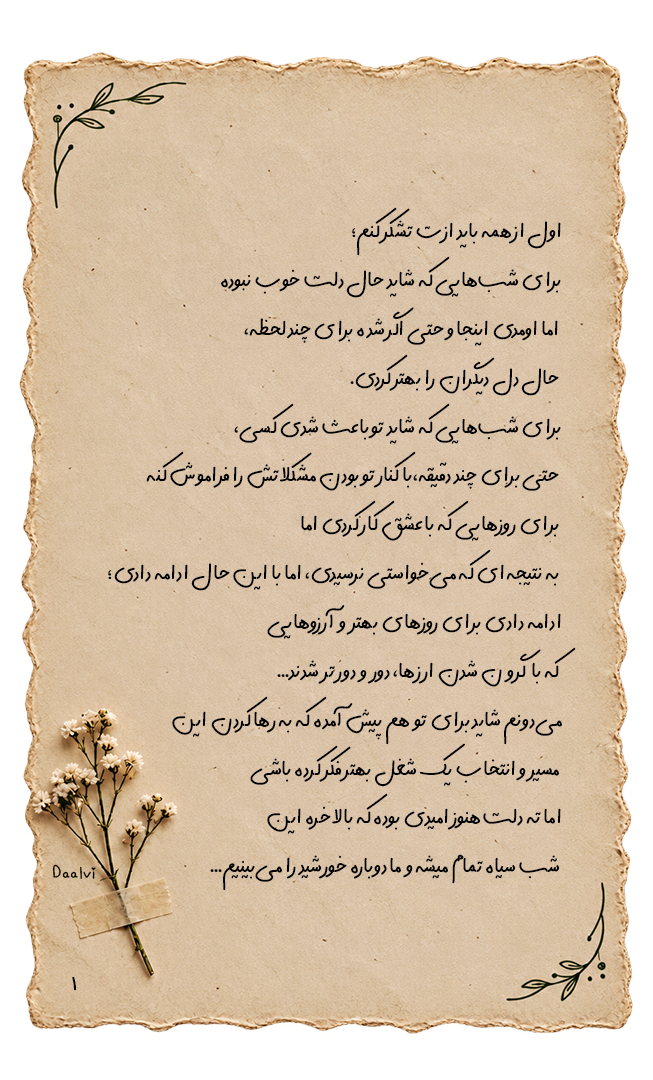
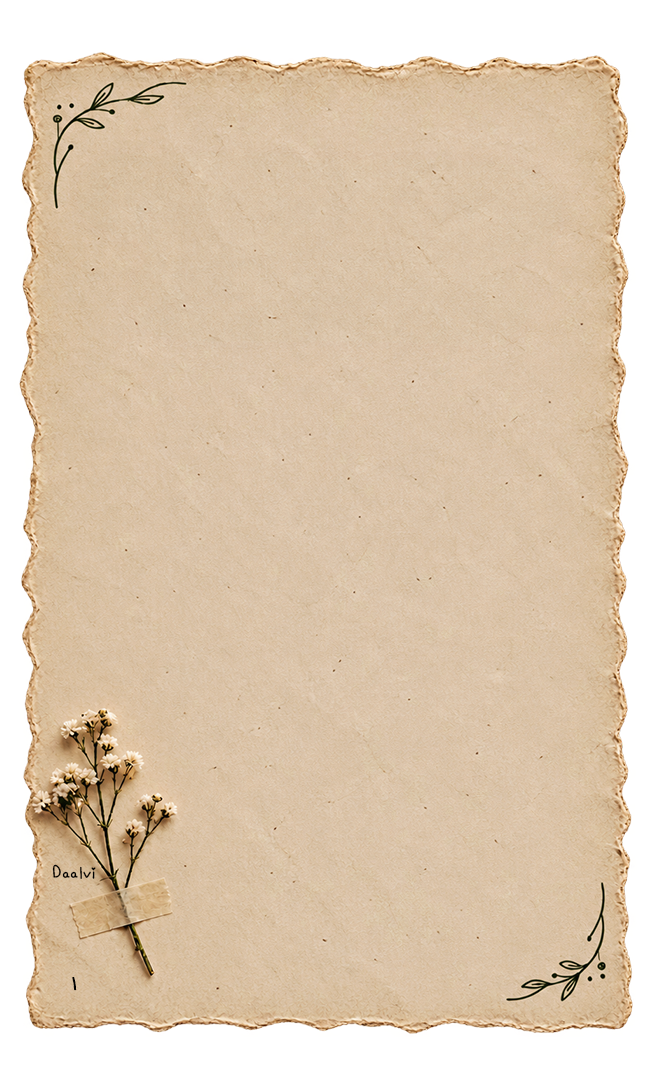
Replace baked letter-page text with blank paper + editable HTML text
The three letter pages used to bake their body text directly into the
PNG artwork, so every text change required a new Photoshop export.
assets/note-page1/2/3.png are now blank versions of the same paper
artwork (same decorations, torn edges, flowers, signature), and the
body text is real HTML laid over it - config.letterPage1/2/3, each
with its own text, position (x/y/width, as % so it scales with the
card on narrow screens), font size, line height, paragraph gap, and
word spacing, all editable live from three tabs in the admin panel
(reusing the existing generic field-schema/renderParagraphs machinery,
no new rendering logic needed). Page 1's dynamic name overlay is
unchanged and stays separate from the body text, as before.

Every px-based size overlaid on the letter card (name overlay font
size/gap, and now the body text's font size/word-spacing/paragraph
gap) is scaled by a new --nur-card-scale variable tied to the same
formula the card's own width already uses, so text stays proportional
to the card instead of overflowing it on narrow screens - this fixes
a real mobile bug the old fixed-px name overlay already had, now made
much more visible by a full paragraph block instead of one label.

doResetSection() now resets every config section a tab actually shows
fields for (not just the first), since the letter-page-1 tab spans two
sections (letterName + letterPage1).

diff --git a/styles.css b/styles.css
@@ -53,6 +53,15 @@
   --nur-envelope-gap-to-envelope:10px;
   --nur-envelope-font-size:20px;
 
+  /* The letter card renders as one scaling image (.letter-stage-inner's
+     width below); every px-sized thing overlaid on it needs to shrink at
+     the same rate or it stays full-size on a card that's shrunk around
+     it. 653px is note-page*.png's natural width - the size these numbers
+     were tuned at. See --nur-letter-name-font-size/--nur-letter1-font-size
+     etc. below for how this gets used. */
+  --nur-card-scale:min(840px,92vw);
+  --nur-card-reference-width:653px;
+
   --nur-letter-name-x:6%;
   --nur-letter-name-y:16%;
   --nur-letter-name-font-size:48px;
@@ -63,6 +72,36 @@
   --nur-final-font-size:34px;
   --nur-final-sig-y:96px;
   --nur-final-sig-font-size:15px;
+
+  /* Letter pages 1-3 - real HTML text laid over the now-blank paper
+     artwork (assets/note-page1/2/3.png). x/y/width are % (same reasoning
+     as --nur-letter-name-x/y: the whole card scales as one image, so a
+     fixed px position/width would overflow it on narrow screens) -
+     positioned the same way as --nur-letter-name-* (right/top), just
+     wrapping instead of nowrap since this is a paragraph block. */
+  --nur-letter1-x:6%;
+  --nur-letter1-y:21%;
+  --nur-letter1-width:80%;
+  --nur-letter1-font-size:17px;
+  --nur-letter1-line-height:1.55;
+  --nur-letter1-gap:8px;
+  --nur-letter1-word-spacing:0px;
+
+  --nur-letter2-x:6%;
+  --nur-letter2-y:13%;
+  --nur-letter2-width:80%;
+  --nur-letter2-font-size:17px;
+  --nur-letter2-line-height:1.55;
+  --nur-letter2-gap:8px;
+  --nur-letter2-word-spacing:0px;
+
+  --nur-letter3-x:6%;
+  --nur-letter3-y:13%;
+  --nur-letter3-width:80%;
+  --nur-letter3-font-size:17px;
+  --nur-letter3-line-height:1.55;
+  --nur-letter3-gap:8px;
+  --nur-letter3-word-spacing:0px;
 }
 
 *{box-sizing:border-box}
@@ -360,7 +399,11 @@ body::before{
 }
 
 .letter-stage-inner{
-  width:min(840px,92vw);
+  /* --nur-card-scale drives every px-based size overlaid on the letter
+     card (name overlay, letter-body text) so they scale down WITH the
+     card on narrow screens instead of staying fixed while the card
+     shrinks - keep this in sync with any change here, they must match. */
+  width:var(--nur-card-scale);
   margin:0 auto 32px;
   filter:drop-shadow(0 22px 50px rgba(0,0,0,.45));
 }
@@ -423,7 +466,10 @@ body::before{
   top:var(--nur-letter-name-y);
   font-family:"DigiDerakhshandeh",Tahoma,Arial,sans-serif;
   font-weight:700;
-  font-size:var(--nur-letter-name-font-size);
+  /* scaled by --nur-card-scale - see the comment on that var - so the
+     name stays proportional to the card instead of a fixed size that
+     looks huge once the card shrinks on a narrow screen. */
+  font-size:calc(var(--nur-letter-name-font-size) * var(--nur-card-scale) / var(--nur-card-reference-width));
   color:#241f16;
   white-space:nowrap;
   transform:rotate(var(--nur-letter-name-rotation));
@@ -434,7 +480,56 @@ body::before{
    the surrounding RTL flow, and we always want space on its visual left
    (toward "عزیز", which follows it in the markup). */
 .field-name-overlay .handle{
-  margin-left:var(--nur-letter-name-gap);
+  margin-left:calc(var(--nur-letter-name-gap) * var(--nur-card-scale) / var(--nur-card-reference-width));
+}
+
+/* The letter body text - real HTML now, replacing what used to be baked
+   into the PNG. Unlike .field-name-overlay (a single nowrap label), this
+   wraps normally within its own width, one <p> per manual line break
+   (same renderParagraphs() used for the intro text). Each page gets its
+   own position/size since the blank artwork's writable area/decorations
+   differ slightly per page. */
+.letter-body p{
+  color:#241f16;
+}
+/* font-size/word-spacing/margin-bottom are all scaled by --nur-card-scale
+   (same reasoning as .field-name-overlay above) - without this, a fixed
+   px font-size stays full-size while the card shrinks on a narrow
+   screen, wrapping into far more lines than fit and overflowing past
+   the bottom of the card. line-height is already unitless (a multiplier
+   of font-size) so it scales automatically and needs no calc(). */
+.page1 .letter-body{
+  right:var(--nur-letter1-x);
+  top:var(--nur-letter1-y);
+  width:var(--nur-letter1-width);
+}
+.page1 .letter-body p{
+  font-size:calc(var(--nur-letter1-font-size) * var(--nur-card-scale) / var(--nur-card-reference-width));
+  line-height:var(--nur-letter1-line-height);
+  word-spacing:calc(var(--nur-letter1-word-spacing) * var(--nur-card-scale) / var(--nur-card-reference-width));
+  margin:0 0 calc(var(--nur-letter1-gap) * var(--nur-card-scale) / var(--nur-card-reference-width));
+}
+.page2 .letter-body{
+  right:var(--nur-letter2-x);
+  top:var(--nur-letter2-y);
+  width:var(--nur-letter2-width);
+}
+.page2 .letter-body p{
+  font-size:calc(var(--nur-letter2-font-size) * var(--nur-card-scale) / var(--nur-card-reference-width));
+  line-height:var(--nur-letter2-line-height);
+  word-spacing:calc(var(--nur-letter2-word-spacing) * var(--nur-card-scale) / var(--nur-card-reference-width));
+  margin:0 0 calc(var(--nur-letter2-gap) * var(--nur-card-scale) / var(--nur-card-reference-width));
+}
+.page3 .letter-body{
+  right:var(--nur-letter3-x);
+  top:var(--nur-letter3-y);
+  width:var(--nur-letter3-width);
+}
+.page3 .letter-body p{
+  font-size:calc(var(--nur-letter3-font-size) * var(--nur-card-scale) / var(--nur-card-reference-width));
+  line-height:var(--nur-letter3-line-height);
+  word-spacing:calc(var(--nur-letter3-word-spacing) * var(--nur-card-scale) / var(--nur-card-reference-width));
+  margin:0 0 calc(var(--nur-letter3-gap) * var(--nur-card-scale) / var(--nur-card-reference-width));
 }
 
 /* small in-paper control, sitting right under a page's baked-in text
@@ -530,9 +625,11 @@ body::before{
   .scene-text p{font-size:18px;line-height:1.75;margin-bottom:12px}
   .scene-text.small p{font-size:16px;margin-bottom:8px}
 
-  /* both letter faces are single baked images that just scale as a
-     whole picture at every width, so only the overlaid buttons need a
-     smaller mobile size - no per-field position overrides needed. */
+  /* The letter card scales as a whole picture at every width, and the
+     name overlay/letter-body text already scale with it via
+     --nur-card-scale (see :root and the .letter-body/.field-name-overlay
+     rules) - only the button's OWN font-size doesn't derive from that
+     and needs an explicit smaller size here. */
   .note-next-btn{font-size:14px;padding:8px 22px}
 
   #stage-letter.active{padding-top:36px}

diff --git a/admin-panel.js b/admin-panel.js
@@ -63,7 +63,43 @@
         { type: "slider", path: ["letterName", "y"], label: "Y (فاصله از بالا)", min: 0, max: 55, step: 0.5, unit: "%" },
         { type: "slider", path: ["letterName", "fontSize"], label: "اندازه فونت", min: 16, max: 90, step: 1, unit: "px" },
         { type: "slider", path: ["letterName", "rotation"], label: "چرخش (Rotation)", min: -30, max: 30, step: 1, unit: "deg" },
-        { type: "slider", path: ["letterName", "gapToAziz"], label: "فاصله تا «عزیز»", min: 0, max: 40, step: 1, unit: "px" }
+        { type: "slider", path: ["letterName", "gapToAziz"], label: "فاصله تا «عزیز»", min: 0, max: 40, step: 1, unit: "px" },
+        { type: "textarea", path: ["letterPage1", "body"], label: "متن نامه - صفحه ۱ (خط خالی = پاراگراف جدید)" },
+        { type: "slider", path: ["letterPage1", "x"], label: "متن: X (فاصله از راست)", min: 0, max: 40, step: 1, unit: "%" },
+        { type: "slider", path: ["letterPage1", "y"], label: "متن: Y (فاصله از بالا)", min: 0, max: 70, step: 1, unit: "%" },
+        { type: "slider", path: ["letterPage1", "width"], label: "متن: عرض بلوک", min: 40, max: 95, step: 1, unit: "%" },
+        { type: "slider", path: ["letterPage1", "fontSize"], label: "متن: اندازه فونت", min: 10, max: 28, step: 1, unit: "px" },
+        { type: "slider", path: ["letterPage1", "lineHeight"], label: "متن: فاصله خطوط", min: 1, max: 2.6, step: 0.05, unit: "" },
+        { type: "slider", path: ["letterPage1", "paragraphGap"], label: "متن: فاصله پاراگرافها", min: 0, max: 40, step: 1, unit: "px" },
+        { type: "slider", path: ["letterPage1", "wordSpacing"], label: "متن: فاصله کلمات", min: 0, max: 20, step: 1, unit: "px" }
+      ]
+    },
+    {
+      id: "letter2",
+      label: "نامه - صفحه ۲",
+      fields: [
+        { type: "textarea", path: ["letterPage2", "body"], label: "متن نامه - صفحه ۲ (خط خالی = پاراگراف جدید)" },
+        { type: "slider", path: ["letterPage2", "x"], label: "X (فاصله از راست)", min: 0, max: 40, step: 1, unit: "%" },
+        { type: "slider", path: ["letterPage2", "y"], label: "Y (فاصله از بالا)", min: 0, max: 70, step: 1, unit: "%" },
+        { type: "slider", path: ["letterPage2", "width"], label: "عرض بلوک", min: 40, max: 95, step: 1, unit: "%" },
+        { type: "slider", path: ["letterPage2", "fontSize"], label: "اندازه فونت", min: 10, max: 28, step: 1, unit: "px" },
+        { type: "slider", path: ["letterPage2", "lineHeight"], label: "فاصله خطوط", min: 1, max: 2.6, step: 0.05, unit: "" },
+        { type: "slider", path: ["letterPage2", "paragraphGap"], label: "فاصله پاراگرافها", min: 0, max: 40, step: 1, unit: "px" },
+        { type: "slider", path: ["letterPage2", "wordSpacing"], label: "فاصله کلمات", min: 0, max: 20, step: 1, unit: "px" }
+      ]
+    },
+    {
+      id: "letter3",
+      label: "نامه - صفحه ۳",
+      fields: [
+        { type: "textarea", path: ["letterPage3", "body"], label: "متن نامه - صفحه ۳ (خط خالی = پاراگراف جدید)" },
+        { type: "slider", path: ["letterPage3", "x"], label: "X (فاصله از راست)", min: 0, max: 40, step: 1, unit: "%" },
+        { type: "slider", path: ["letterPage3", "y"], label: "Y (فاصله از بالا)", min: 0, max: 70, step: 1, unit: "%" },
+        { type: "slider", path: ["letterPage3", "width"], label: "عرض بلوک", min: 40, max: 95, step: 1, unit: "%" },
+        { type: "slider", path: ["letterPage3", "fontSize"], label: "اندازه فونت", min: 10, max: 28, step: 1, unit: "px" },
+        { type: "slider", path: ["letterPage3", "lineHeight"], label: "فاصله خطوط", min: 1, max: 2.6, step: 0.05, unit: "" },
+        { type: "slider", path: ["letterPage3", "paragraphGap"], label: "فاصله پاراگرافها", min: 0, max: 40, step: 1, unit: "px" },
+        { type: "slider", path: ["letterPage3", "wordSpacing"], label: "فاصله کلمات", min: 0, max: 20, step: 1, unit: "px" }
       ]
     },
     {
@@ -274,14 +310,19 @@
   }
 
   function doResetSection() {
+    // A tab can span more than one config section (e.g. "letter" has both
+    // letterName and letterPage1) - reset every distinct section that tab
+    // actually shows fields for, not just the first one.
     const tab = TABS.find((t) => t.id === activeTab);
-    const sectionKey = tab.fields[0] ? tab.fields[0].path[0] : null;
-    if (!sectionKey) return;
-    if (sectionKey === "streamerName") {
-      draft.streamerName = api.DEFAULT_CONFIG.streamerName;
-    } else {
-      draft[sectionKey] = api.deepClone(api.DEFAULT_CONFIG[sectionKey]);
-    }
+    const sectionKeys = [...new Set(tab.fields.map((f) => f.path[0]))];
+    if (sectionKeys.length === 0) return;
+    sectionKeys.forEach((sectionKey) => {
+      if (sectionKey === "streamerName") {
+        draft.streamerName = api.DEFAULT_CONFIG.streamerName;
+      } else {
+        draft[sectionKey] = api.deepClone(api.DEFAULT_CONFIG[sectionKey]);
+      }
+    });
     api.saveConfig(draft);
     window.NUR_APP.applyConfig(api.deepClone(draft));
     refreshAllFields();

diff --git a/config.js b/config.js
@@ -63,6 +63,89 @@
       gapToAziz: 8
     },
 
+    /* The three letter pages used to be baked-text PNGs; the artwork is now
+       blank paper (assets/note-page1/2/3.png) and this is the real HTML
+       text laid over it, one section per page, all in the same shape so
+       the admin panel can treat them identically. letterPage1's `body`
+       intentionally does NOT repeat "{name} عزیز" - that line is still
+       drawn by the separate letterName overlay above (so it always tracks
+       the current streamer), never duplicated as literal text here.
+       x/y/width are % (like letterName.x/y) since the whole letter card
+       scales as one image at every viewport width - a fixed px position
+       would overflow the card on narrow screens. fontSize/lineHeight/
+       paragraphGap/wordSpacing are px/unitless, same as every other text
+       control in this file. */
+    letterPage1: {
+      body:
+        "اول از همه باید ازت تشکر کنم؛\n" +
+        "برای شبهایی که شاید حال دلت خوب نبوده\n" +
+        "اما اومدی اینجا و حتی اگر شده برای چند لحظه،\n" +
+        "حال دل دیگران را بهتر کردی.\n" +
+        "برای شبهایی که شاید تو باعث شدی کسی،\n" +
+        "حتی برای چند دقیقه، کنار تو بودن را تجربه کند و مشکلاتش\n" +
+        "را فراموش کند، برای روزهایی که با عشق کار کردی اما\n" +
+        "به نتیجهای که میخواستی نرسیدی، و با این حال ادامه دادی؛\n" +
+        "ادامه دادی برای روزهای بهتر و برای آرزوهایی\n" +
+        "که با گران شدن ارزها، دور و دورتر شدند.\n" +
+        "میدانم شاید برای تو هم پیش آمده که به رها کردن این\n" +
+        "مسیر و انتخاب یک شغل بهتر فکر کرده باشی.\n" +
+        "اما ته دلت هنوز امیدی بوده که بالاخره این\n" +
+        "شب سیاه تمام میشود و ما دوباره خورشید را میبینیم...",
+      x: 6,
+      y: 21,
+      width: 80,
+      fontSize: 17,
+      lineHeight: 1.55,
+      paragraphGap: 8,
+      wordSpacing: 0
+    },
+
+    letterPage2: {
+      body:
+        "با همهی سختیها، تغییرها و روزهای خوب و بد،\n" +
+        "تو باز هم ادامه دادی و من، به عنوان عضوی کوچک\n" +
+        "از جامعه استریم فارسی، به دیدن این مسیر و ادامه دادنت\n" +
+        "افتخار میکنم و قدردان حضورت هستم.\n" +
+        "ما نمیدونیم پایان این تاریکی چه زمانی است،\n" +
+        "اما تو میتونی تا اون زمان یکی از ستارههای این شب باشی؛\n" +
+        "یک ستارهی روشن که آدما با دیدنش دوباره به زندگی امیدوار میشن!\n\n" +
+        "میخوام دعوتت کنم که تو ستارهی نورانی بعدی این مسیر باشی\n" +
+        "بهزودی بخشی از نور من برای تو فرستاده میشه\n" +
+        "یادت باشه تعداد محبتهای یک نور را نشماری؛\n" +
+        "به آسمانی فکر کن که روزی در تاریکترین\n" +
+        "شکل خودش بوده، اما به خاطر حضور و قدمهای تو، کمکم\n" +
+        "به یک آسمان پر ستاره تبدیل شده...",
+      x: 6,
+      y: 13,
+      width: 80,
+      fontSize: 17,
+      lineHeight: 1.55,
+      paragraphGap: 8,
+      wordSpacing: 0
+    },
+
+    letterPage3: {
+      body:
+        "یک قدم با هدیهات فاصله داری\n" +
+        "میتونی همهش رو برای خودت برداری،\n" +
+        "یا بخشی از این نور رو به نفر بعد برسونی؛ نه لزوماً به\n" +
+        "همون شکل، شاید با کمی توجه، گوش شنوا بودن،\n" +
+        "معرفی کردن یک نفر، یا هر کاری که از دستت برمیاد تا برای\n" +
+        "چند دقیقه هم که شده، شب یکی کمی روشنتر بشه.\n\n" +
+        "فراموش نکن که محبتِ نور رو نشماری؛ چون نور برای\n" +
+        "شمرده شدن نیست، برای پخش شدنه\n" +
+        "اگر نگهش داری، کوچیک میشه؛ اگر منتقلش کنی،\n" +
+        "گسترش پیدا میکنه، با قلبت حسش کن و بذار\n" +
+        "از تو، یک ستارهی دیگه روشن بشه...",
+      x: 6,
+      y: 23,
+      width: 80,
+      fontSize: 17,
+      lineHeight: 1.55,
+      paragraphGap: 8,
+      wordSpacing: 0
+    },
+
     final: {
       main: "این نور حالا پیش توئه🌠",
       sub: "ممنون که همراه این مسیر شدی، امیدوارم وقتی وقتش رسید، تو هم دلیل روشن شدن شب یکی دیگه باشی❤",

diff --git a/app.js b/app.js
@@ -127,6 +127,18 @@
     root.setProperty("--nur-letter-name-rotation", config.letterName.rotation + "deg");
     root.setProperty("--nur-letter-name-gap", config.letterName.gapToAziz + "px");
 
+    [1, 2, 3].forEach((n) => {
+      const section = config["letterPage" + n];
+      root.setProperty(`--nur-letter${n}-x`, section.x + "%");
+      root.setProperty(`--nur-letter${n}-y`, section.y + "%");
+      root.setProperty(`--nur-letter${n}-width`, section.width + "%");
+      root.setProperty(`--nur-letter${n}-font-size`, section.fontSize + "px");
+      root.setProperty(`--nur-letter${n}-line-height`, section.lineHeight);
+      root.setProperty(`--nur-letter${n}-gap`, section.paragraphGap + "px");
+      root.setProperty(`--nur-letter${n}-word-spacing`, section.wordSpacing + "px");
+      renderParagraphs(document.getElementById("letterBody" + n), section.body);
+    });
+
     root.setProperty("--nur-final-y", config.final.offsetY + "px");
     root.setProperty("--nur-final-font-size", config.final.mainFontSize + "px");
     root.setProperty("--nur-final-sig-y", config.final.signatureOffsetY + "px");

diff --git a/index.html b/index.html
@@ -536,14 +536,17 @@
         <div class="letter-face page1">
           <img class="note-img" src="assets/note-page1.png" alt="نامه - صفحه ۱">
           <div class="note-field field-name-overlay" id="letterNameOverlay"></div>
+          <div class="note-field letter-body" id="letterBody1"></div>
           <button class="note-next-btn" id="toPage2">صفحهی بعد</button>
         </div>
         <div class="letter-face page2">
           <img class="note-img" src="assets/note-page2.png" alt="نامه - صفحه ۲">
+          <div class="note-field letter-body" id="letterBody2"></div>
           <button class="note-next-btn" id="toPage3">صفحهی بعد</button>
         </div>
         <div class="letter-face page3">
           <img class="note-img" src="assets/note-page3.png" alt="نامه - صفحه ۳">
+          <div class="note-field letter-body" id="letterBody3"></div>
           <button class="note-next-btn" id="toCountdown">دریافت نور</button>
         </div>
       </div>
